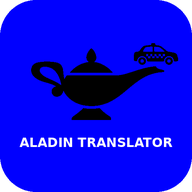
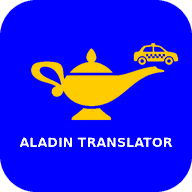
Add files via upload

diff --git a/index.html b/index.html
@@ -8,11 +8,10 @@
     <meta name="apple-mobile-web-app-capable" content="yes">
     <meta name="apple-mobile-web-app-status-bar-style" content="black-translucent">
     <meta name="mobile-web-app-capable" content="yes">
-    <link rel="icon" type="image/png" sizes="192x192" href="icon-192.png">
+    <link rel="icon" type="image/png" sizes="192x192" href="icon-192 (1).png">
     <link rel="apple-touch-icon" href="apple-touch-icon.png">
     <!-- 파일 없이 HTML만 열어도 아이콘이 보이도록 내장한 예비 아이콘 -->
[1 lines of base64/hex data omitted]
-    <title>알라딘 통역</title>
+        <title>알라딘 통역</title>
     <link rel="preconnect" href="https://fonts.googleapis.com">
     <link rel="preconnect" href="https://fonts.gstatic.com" crossorigin>
     <link href="https://fonts.googleapis.com/css2?family=Noto+Serif+KR:wght@600;700&display=swap" rel="stylesheet">
@@ -436,7 +435,9 @@
         #tr-input[readonly], #tr-input2[readonly] { -webkit-touch-callout: none; -webkit-user-select: none; user-select: none; } /* 길게 누르기를 붙여넣기에 쓰려고 글자 선택 막음 (고치는 중에는 선택 가능) */
     </style>
 <style>
-  .arr-row { display: grid; grid-template-columns: 1fr 1fr; gap: 12px; margin: 0 0 16px; }
+  .arr-row { display: grid; grid-template-columns: 1fr 1fr 1fr; gap: 10px; margin: 0 0 16px; }
+  .arr-row.off { display: none; }
+  .arr-btn { white-space: nowrap; padding: 0 4px; }
   .arr-btn { min-height: 64px; border-radius: 16px; border: 1px solid var(--hairline); background: var(--surface-2); color: var(--accent-bright); font-family: inherit; font-size: 22px; font-weight: 800; cursor: pointer; }
   .arr-btn:active { background: #10121a; }
 </style>
@@ -445,8 +446,8 @@
     <header id="main-header">
         <div class="menu-btn" id="menu-btn" onclick="toggleMenu()"><div></div><div></div><div></div></div>
         <div id="head-greet-btn" onclick="openGreet()" style="position:absolute; left:58px; width:44px; height:44px; border-radius:50%; background:var(--surface-2); border:1px solid var(--hairline); display:flex; align-items:center; justify-content:center; font-size:22px; cursor:pointer; z-index:1001;">👋</div>
-        <span id="header-title">ALADIN TAXI</span>
-        <div id="rate-btn" onclick="sayRateRequest()" title="좋은 평가 부탁" style="position:absolute; left:8px; width:44px; height:44px; border-radius:50%; background:linear-gradient(150deg, var(--accent-bright), var(--accent-color)); display:flex; align-items:center; justify-content:center; font-size:22px; cursor:pointer; z-index:1001; box-shadow:0 8px 20px -8px rgba(201,162,39,0.6);">⭐</div>
+        <span id="header-title">알라딘 통역</span>
+        <div id="rate-btn" onclick="openQR()" title="QR" style="position:absolute; left:8px; width:44px; height:44px; border-radius:8px; background:#fff; padding:3px; box-sizing:border-box; display:flex; align-items:center; justify-content:center; cursor:pointer; z-index:1001;"><img src="qr_v1_26-10-21-11시10분_알라딘통역방.png" alt="QR" style="width:100%; height:100%; display:block;"></div>
         <div id="search-trigger" onclick="toggleSearch()">검색</div>
         <div id="search-input-container">
             <input type="text" id="search-input" placeholder="검색어 입력..." oninput="handleSearch(this.value)">
@@ -460,15 +461,19 @@
         <div class="menu-item" onclick="importData()">📥 데이터 복원 (가져오기)</div>
         <div class="menu-item" onclick="toggleMenu(); openGreetEditor()">👋 인사말 넣기</div>
         <div class="menu-item" onclick="toggleMenu(); openWords()">📖 단어장</div>
+        <div class="menu-item" onclick="toggleMenu(); openNativePicker()">🌐 모국어 바꾸기</div>
+        <div class="menu-item" id="arr-toggle" onclick="toggleArrRow()">✈ 공항·열차 접기</div>
+        <div style="margin-top:24px; font-size:14px; color:var(--text-dim);">알라딘 통역 v4 · 26-10-21-11시25분</div>
         <button onclick="toggleMenu()" style="margin-top:50px; width:100%; padding:18px; background:var(--surface-2); color:var(--text-color); border:1px solid var(--hairline-soft); border-radius:var(--radius-xl); font-size: 16px; font-weight: 700; cursor:pointer;">설정 닫기</button>
     </div>
     <div class="container" id="country-view">
     <div class="arr-row">
         <button class="arr-btn" onclick="AladdinArrivals.open('airport')">✈ 공항</button>
         <button class="arr-btn" onclick="AladdinArrivals.open('train')">🚆 열차</button>
+        <button class="arr-btn" onclick="showToast('크루즈 도착정보는 준비 중입니다')">🚢 크루즈</button>
     </div>
         <div id="country-top" style="position:sticky; top:70px; z-index:50; background:var(--bg-color); margin:-16px -16px 0; padding:16px 16px 4px;">
-        <div id="last-country-btn" onclick="openLastCountry()" style="display:none; align-items:center; gap:12px; padding:14px 18px; margin-bottom:12px; border-radius:var(--radius-xl); background:var(--major-grad); border:1px solid var(--accent-color); box-shadow:var(--premium-shadow); cursor:pointer; font-size:22px; font-weight:800; color:var(--text-color);"><span id="last-country-flag" style="font-size:32px; line-height:1;"></span><span id="last-country-name" style="flex:1; min-width:0;"></span><span onclick="event.stopPropagation(); openGreet()" style="flex:none; width:46px; height:46px; border-radius:50%; background:var(--surface-2); border:1px solid var(--hairline); display:flex; align-items:center; justify-content:center; font-size:24px;">👋</span><span style="color:var(--accent-bright); font-size:20px;">▶</span></div>
+        <div id="last-country-btn" onclick="openLastCountry()" style="display:none; align-items:center; gap:12px; padding:14px 18px; margin-bottom:12px; border-radius:var(--radius-xl); background:var(--major-grad); border:1px solid var(--accent-color); box-shadow:var(--premium-shadow); cursor:pointer; font-size:22px; font-weight:800; color:var(--text-color);"><span id="last-country-flag" style="font-size:32px; line-height:1;"></span><span id="last-country-name" style="flex:1; min-width:0;"></span><span style="color:var(--accent-bright); font-size:20px;">▶</span></div>
         <input type="text" id="country-search" class="country-search-bar" placeholder="찾으시는 국가명을 입력하세요..." oninput="filterCountries(this.value)">
         </div>
         <div id="major-section"><div class="section-title">영어권 국가</div><div id="major-list" class="grid"></div></div>
@@ -617,9 +622,9 @@
         ].sort((a, b) => a.name.localeCompare(b.name, 'ko'));
         const otherLangs = [...fixedOther, ...sortedOther];
         const enNames = {
-            en_us:'United States', en_gb:'United Kingdom', en_ca:'Canada', en_au:'Australia', en_sg:'Singapore', en_in:'India (English)', en_nz:'New Zealand', en_ie:'Ireland', en_za:'South Africa', en_ph:'Philippines (English)',
-            ko:'Korea', tw:'Taiwan', ja:'Japan', zh:'China', vn:'Vietnam', th:'Thailand', ph:'Philippines (Tagalog)', hk:'Hong Kong', my:'Malaysia', id:'Indonesia', ru:'Russia', mn:'Mongolia', uz:'Uzbekistan', kz:'Kazakhstan',
-            fr:'France', de:'Germany', es:'Spain', it:'Italy', tr:'Türkiye (Turkey)', ae:'United Arab Emirates', sa:'Saudi Arabia', in:'India (Hindi)', br:'Brazil', mx:'Mexico', nl:'Netherlands', se:'Sweden', pl:'Poland', cz:'Czech Republic', eg:'Egypt',
+            en_us:'USA', en_gb:'UK', en_ca:'Canada', en_au:'Australia', en_sg:'Singapore', en_in:'India', en_nz:'NZ', en_ie:'Ireland', en_za:'S.Africa', en_ph:'Philippines',
+            ko:'Korea', tw:'Taiwan', ja:'Japan', zh:'China', vn:'Vietnam', th:'Thailand', ph:'Philippines', hk:'Hong Kong', my:'Malaysia', id:'Indonesia', ru:'Russia', mn:'Mongolia', uz:'Uzbekistan', kz:'Kazakhstan',
+            fr:'France', de:'Germany', es:'Spain', it:'Italy', tr:'Türkiye', ae:'UAE', sa:'Saudi', in:'India', br:'Brazil', mx:'Mexico', nl:'Netherlands', se:'Sweden', pl:'Poland', cz:'Czechia', eg:'Egypt',
             pt:'Portugal', no:'Norway', ne:'Nepal', mm:'Myanmar',
             ch:'Switzerland', at:'Austria', be:'Belgium', dk:'Denmark', fi:'Finland', gr:'Greece', lu:'Luxembourg', il:'Israel', qa:'Qatar', kw:'Kuwait', mo:'Macau', kh:'Cambodia', bd:'Bangladesh', pk:'Pakistan', lk:'Sri Lanka', arg:'Argentina', cl:'Chile', co:'Colombia', pe:'Peru', ua:'Ukraine', hu:'Hungary', ro:'Romania'
         };
@@ -883,7 +888,7 @@
         }
         function filterCountries(val) { if (!val.trim()) { renderCountryLists(majorLangs, otherLangs); return; } const fMajors = majorLangs.filter(c => c.name.includes(val)); const fOthers = otherLangs.filter(c => c.name.includes(val)); renderCountryLists(fMajors, fOthers); }
         function toggleMenu() { const m = document.getElementById('side-menu'); m.classList.toggle('active'); if (m.classList.contains('active')) ensureSentinel(3); }
-        function goHome() { document.getElementById('rate-btn').style.display = 'flex'; document.getElementById('menu-btn').style.display = ''; document.getElementById('head-greet-btn').style.display = 'flex'; closeCategoryPopup(); closeTranslator(); document.getElementById('phrase-view').classList.add('hidden'); document.getElementById('country-view').classList.remove('hidden'); document.getElementById('header-title').innerText = "ALADIN TAXI"; document.getElementById('tour-btn').style.display = 'none'; if (document.getElementById('search-input-container').style.display === 'flex') toggleSearch(); document.getElementById('search-trigger').style.display = 'none'; isTourMode = false; closeDisplay(); closeTour(); document.getElementById('country-search').value = ''; filterCountries(''); }
+        function goHome() { document.getElementById('rate-btn').style.display = 'flex'; document.getElementById('menu-btn').style.display = ''; document.getElementById('head-greet-btn').style.display = 'flex'; closeCategoryPopup(); closeTranslator(); document.getElementById('phrase-view').classList.add('hidden'); document.getElementById('country-view').classList.remove('hidden'); document.getElementById('header-title').innerText = (window.uiT ? uiT('알라딘 통역') : '알라딘 통역'); document.getElementById('tour-btn').style.display = 'none'; if (document.getElementById('search-input-container').style.display === 'flex') toggleSearch(); document.getElementById('search-trigger').style.display = 'none'; isTourMode = false; closeDisplay(); closeTour(); document.getElementById('country-search').value = ''; filterCountries(''); }
         function goBack() { if (!closeTopLayer()) goHome(); }
         function showPhraseView(id, name) { ensureSentinel(3); document.getElementById('rate-btn').style.display = 'flex'; document.getElementById('menu-btn').style.display = 'none'; document.getElementById('head-greet-btn').style.display = 'flex'; curL = id; try { localStorage.setItem('taxi_v10_lastlang', id); } catch (e) {} renderLastCountry(); document.getElementById('country-view').classList.add('hidden'); document.getElementById('phrase-view').classList.remove('hidden'); document.getElementById('header-title').innerText = name; document.getElementById('tour-btn').style.display = 'flex'; document.getElementById('search-trigger').style.display = 'flex'; renderTabs(); renderPhrases(); }
 
@@ -1028,7 +1033,7 @@
             // 나라 고르는 목록: 첫 화면과 같은 순서(영어권 국가 → 비영어권 국가), "🇨🇦 캐나다 (Canada)"처럼 한국어(영어)로 보여 줌
             // 고른 뒤 칸에는 승객이 보는 영어 이름(🇨🇦 Canada)만 표시
             const en = c => `${c.flag} ${enNames[c.id] || c.name}`, ko = c => `${c.flag} ${c.name.replace(/\(.*\)/, '').trim()} (${(enNames[c.id] || c.name).replace(' (', ' · ').replace(')', '')})`; // 괄호 안은 승객이 알아보도록 영어
-            const opt = c => `<option value="${c.id}" data-en="${en(c)}" data-ko="${ko(c)}">${c.flag} ${ko(c)}</option>`;
+            const opt = c => `<option value="${c.id}" data-en="${en(c)}" data-ko="${ko(c)}">${ko(c)}</option>`;
             const gko = c => `<option value="${c.id}">${c.flag} ${c.name}</option>`; // 인사말 화면 나라 바꾸기 목록 (기사님용 한국어 이름)
             document.getElementById('greet-lang').innerHTML = `<optgroup label="영어권 국가">${majorLangs.map(gko).join('')}</optgroup><optgroup label="비영어권 국가">${otherLangs.filter(c => c.id !== 'ko').map(gko).join('')}</optgroup>`;
             document.getElementById('tr-lang').innerHTML = `<optgroup label="영어권 국가">${majorLangs.map(opt).join('')}</optgroup><optgroup label="비영어권 국가">${otherLangs.filter(c => c.id !== 'ko').map(opt).join('')}</optgroup>`;
@@ -1661,8 +1666,126 @@
     openTranslator();
   }
 </script>
-<!-- 방: 알라딘통역방 · 통역앱 v1 · 26-10-21-01시20분 -->
+
+<!-- 통역앱 v2 · 26-10-21-11시10분 · 알라딘통역방 : QR 코드(별 자리), 모국어 선택(첫 실행), 모국어에 맞춰 첫 화면 글자 바꾸기 -->
+<style>
+  #qr-ov, #nat-ov { position:fixed; inset:0; z-index:200000; display:none; align-items:center; justify-content:center; background:rgba(0,0,0,0.78); }
+  #qr-ov.on, #nat-ov.on { display:flex; }
+  #qr-card { background:#fff; border-radius:20px; padding:18px; text-align:center; width:min(86vw, 380px); box-sizing:border-box; }
+  #qr-card img { width:100%; display:block; }
+  #qr-card a { display:block; margin-top:12px; font-size:15px; font-weight:700; color:#000; word-break:break-all; text-decoration:underline; }
+  #nat-card { background:var(--bg-color); border:1px solid var(--accent-color); border-radius:20px; width:min(92vw, 440px); max-height:86vh; display:flex; flex-direction:column; box-sizing:border-box; overflow:hidden; }
+  #nat-title { padding:18px 16px 12px; text-align:center; font-size:22px; font-weight:800; color:var(--accent-bright); border-bottom:1px solid var(--hairline); }
+  #nat-install { display:none; margin:12px 16px 0; padding:14px; border:none; border-radius:14px; background:var(--accent-color); color:#000; font-family:inherit; font-size:20px; font-weight:800; cursor:pointer; }
+  #nat-list { overflow-y:auto; padding:8px 12px 16px; }
+  .nat-row { display:flex; align-items:center; gap:12px; padding:12px 10px; border-bottom:1px solid var(--hairline); font-size:20px; font-weight:700; color:var(--text-color); cursor:pointer; white-space:nowrap; overflow:hidden; }
+  .nat-row .f { font-size:28px; line-height:1; flex:none; }
+  .nat-row .n { overflow:hidden; text-overflow:ellipsis; }
+  .nat-row.sel { color:var(--accent-bright); }
+</style>
+<div id="qr-ov" onclick="closeQR()"><div id="qr-card"><img src="qr_v1_26-10-21-11시10분_알라딘통역방.png" alt="QR"><a id="qr-link" href="https://as01045686787-hub.github.io/aladdin-translator/" onclick="event.stopPropagation()">https://as01045686787-hub.github.io/aladdin-translator/</a></div></div>
+<div id="nat-ov"><div id="nat-card"><div id="nat-title">모국어 선택 · Your language</div><button id="nat-install" onclick="doInstall()">📲 앱 설치 · Install</button><div id="nat-list"></div></div></div>
+<script>
+  /* ---- QR: 작게(별 자리) → 누르면 크게 ---- */
+  function openQR() { document.getElementById('qr-ov').classList.add('on'); }
+  function closeQR() { document.getElementById('qr-ov').classList.remove('on'); }
+
+  /* ---- 설치 버튼: 브라우저가 설치를 허락할 때만 보임 (설치는 한 번 눌러야 함) ---- */
+  let deferredInstall = null;
+  window.addEventListener('beforeinstallprompt', e => { e.preventDefault(); deferredInstall = e; const b = document.getElementById('nat-install'); if (b) b.style.display = 'block'; });
+  async function doInstall() { if (!deferredInstall) return; deferredInstall.prompt(); try { await deferredInstall.userChoice; } catch (e) {} deferredInstall = null; document.getElementById('nat-install').style.display = 'none'; }
+
+  /* ---- 모국어 ---- */
+  const NATIVE_KEY = 'aladdin_native';
+  let uiLang = null, uiMap = {};
+  function getNative() { try { return localStorage.getItem(NATIVE_KEY); } catch (e) { return null; } }
+  function uiT(ko) { return (uiLang && uiMap[ko]) || ko; }
+  function dispName(c) { if (!uiLang) return c.name; return uiMap[c.name] || enNames[c.id] || c.name; }
+
+  function openNativePicker() {
+    const cur = getNative() || 'ko';
+    const all = [findCountry('ko')].concat(majorLangs, otherLangs.filter(c => c.id !== 'ko'));
+    document.getElementById('nat-list').innerHTML = all.map(c =>
+      `<div class="nat-row${c.id === cur ? ' sel' : ''}" onclick="pickNative('${c.id}')"><span class="f">${c.flag}</span><span class="n">${enNames[c.id] || ''} · ${c.name.replace(/\(.*\)/, '').trim()}</span></div>`).join('');
+    document.getElementById('nat-install').style.display = deferredInstall ? 'block' : 'none';
+    document.getElementById('nat-ov').classList.add('on');
+  }
+  function pickNative(id) {
+    try { localStorage.setItem(NATIVE_KEY, id); } catch (e) {}
+    document.getElementById('nat-ov').classList.remove('on');
+    if (id !== 'ko') syncCountryFromTr(id);   // 통역 화면의 외국어 쪽도 그 나라 말로
+    applyNative();
+  }
+
+  // 첫 화면 글자 목록 (한국어 원문)
+  const UI_TEXTS = ['알라딘 통역', '영어권 국가', '비영어권 국가', '찾으시는 국가명을 입력하세요...'];
+
+  async function translateList(list, code) {
+    const out = {};
+    for (let i = 0; i < list.length; i += 25) {
+      const part = list.slice(i, i + 25);
+      try {
+        const r = await fetch(`https://translate.googleapis.com/translate_a/single?client=gtx&sl=ko&tl=${code}&dt=t&q=${encodeURIComponent(part.join('\n'))}`);
+        const d = await r.json();
+        const lines = d[0].map(p => p[0]).join('').split('\n').map(s => s.trim());
+        if (lines.length === part.length) part.forEach((k, j) => { if (lines[j]) out[k] = lines[j]; });
+      } catch (e) {}
+    }
+    return out;
+  }
+
+  async function applyNative() {
+    const id = getNative();
+    const code = id && id !== 'ko' ? langMap[id] : null;
+    uiLang = code; uiMap = {};
+    if (code) {
+      const cacheKey = 'aladdin_ui_' + code;
+      try { uiMap = JSON.parse(localStorage.getItem(cacheKey)) || {}; } catch (e) { uiMap = {}; }
+      const need = UI_TEXTS.concat(majorLangs.map(c => c.name), otherLangs.map(c => c.name)).filter(k => !uiMap[k]);
+      if (need.length) { Object.assign(uiMap, await translateList(need, code)); try { localStorage.setItem(cacheKey, JSON.stringify(uiMap)); } catch (e) {} }
+    }
+    paintUI();
+  }
+
+  function paintUI() {
+    if (!document.getElementById('country-view').classList.contains('hidden')) document.getElementById('header-title').innerText = uiT('알라딘 통역');
+    document.querySelector('#major-section .section-title').textContent = uiT('영어권 국가');
+    document.querySelector('#other-section .section-title').textContent = uiT('비영어권 국가');
+    document.getElementById('country-search').placeholder = uiT('찾으시는 국가명을 입력하세요...');
+    filterCountries(document.getElementById('country-search').value || '');
+    renderLastCountry();
+  }
+
+  // 나라 목록·최근 나라: 모국어 이름으로 표시 (누르는 동작은 그대로)
+  function renderCountryLists(majors, others) {
+    const row = (c, cls) => `<div class="item-btn${cls}" onclick="showPhraseView('${c.id}', '${c.name}')"><span class="flag">${c.flag}</span><span class="name">${dispName(c).replace('(', '<wbr>(')}</span></div>`;
+    document.getElementById('major-list').innerHTML = majors.map(c => row(c, ' major-btn')).join('');
+    document.getElementById('other-list').innerHTML = others.map(c => row(c, '')).join('');
+    document.getElementById('major-section').style.display = majors.length ? 'block' : 'none';
+    document.getElementById('other-section').style.display = others.length ? 'block' : 'none';
+  }
+  function filterCountries(val) {
+    if (!val.trim()) { renderCountryLists(majorLangs, otherLangs); return; }
+    const v = val.trim().toLowerCase(), hit = c => c.name.includes(val) || dispName(c).toLowerCase().includes(v) || (enNames[c.id] || '').toLowerCase().includes(v);
+    renderCountryLists(majorLangs.filter(hit), otherLangs.filter(hit));
+  }
+  function renderLastCountry() {
+    const c = findCountry(curL), btn = document.getElementById('last-country-btn');
+    if (!c) { btn.style.display = 'none'; return; }
+    document.getElementById('last-country-flag').innerText = c.flag; document.getElementById('last-country-name').innerText = dispName(c); btn.style.display = 'flex';
+  }
+
+  // 공항·열차·크루즈 줄 접기/펼치기 (한국에서만 쓰는 기능이라 글자는 한국어 그대로)
+  function arrShown() { try { return localStorage.getItem('aladdin_arr_show') !== '0'; } catch (e) { return true; } }
+  function paintArrRow() { const on = arrShown(); document.querySelector('.arr-row').classList.toggle('off', !on); document.getElementById('arr-toggle').textContent = on ? '✈ 공항·열차 접기' : '✈ 공항·열차 펼치기'; }
+  function toggleArrRow() { try { localStorage.setItem('aladdin_arr_show', arrShown() ? '0' : '1'); } catch (e) {} paintArrRow(); }
+  window.addEventListener('load', paintArrRow);
+
+  // 시작할 때: 모국어가 없으면(첫 실행) 선택 창, 있으면 그 말로 화면 표시
+  window.addEventListener('load', () => { setTimeout(() => { if (!getNative()) openNativePicker(); else applyNative(); }, 0); });
+</script>
+<!-- 방: 알라딘통역방 · 통역앱 v4 · 26-10-21-11시25분 (아이콘: 파란 바탕 노란 램프) -->
 </body>
 </html>
 
-<!-- 파일 끝 · 택시앱 전체소스 · v1 · 26-10-21-01시15분 · 방: 알라딘택시방 -->
+<!-- 파일 끝 · 알라딘 통역 · v4 · 26-10-21-11시25분 · 방: 알라딘통역방 -->
